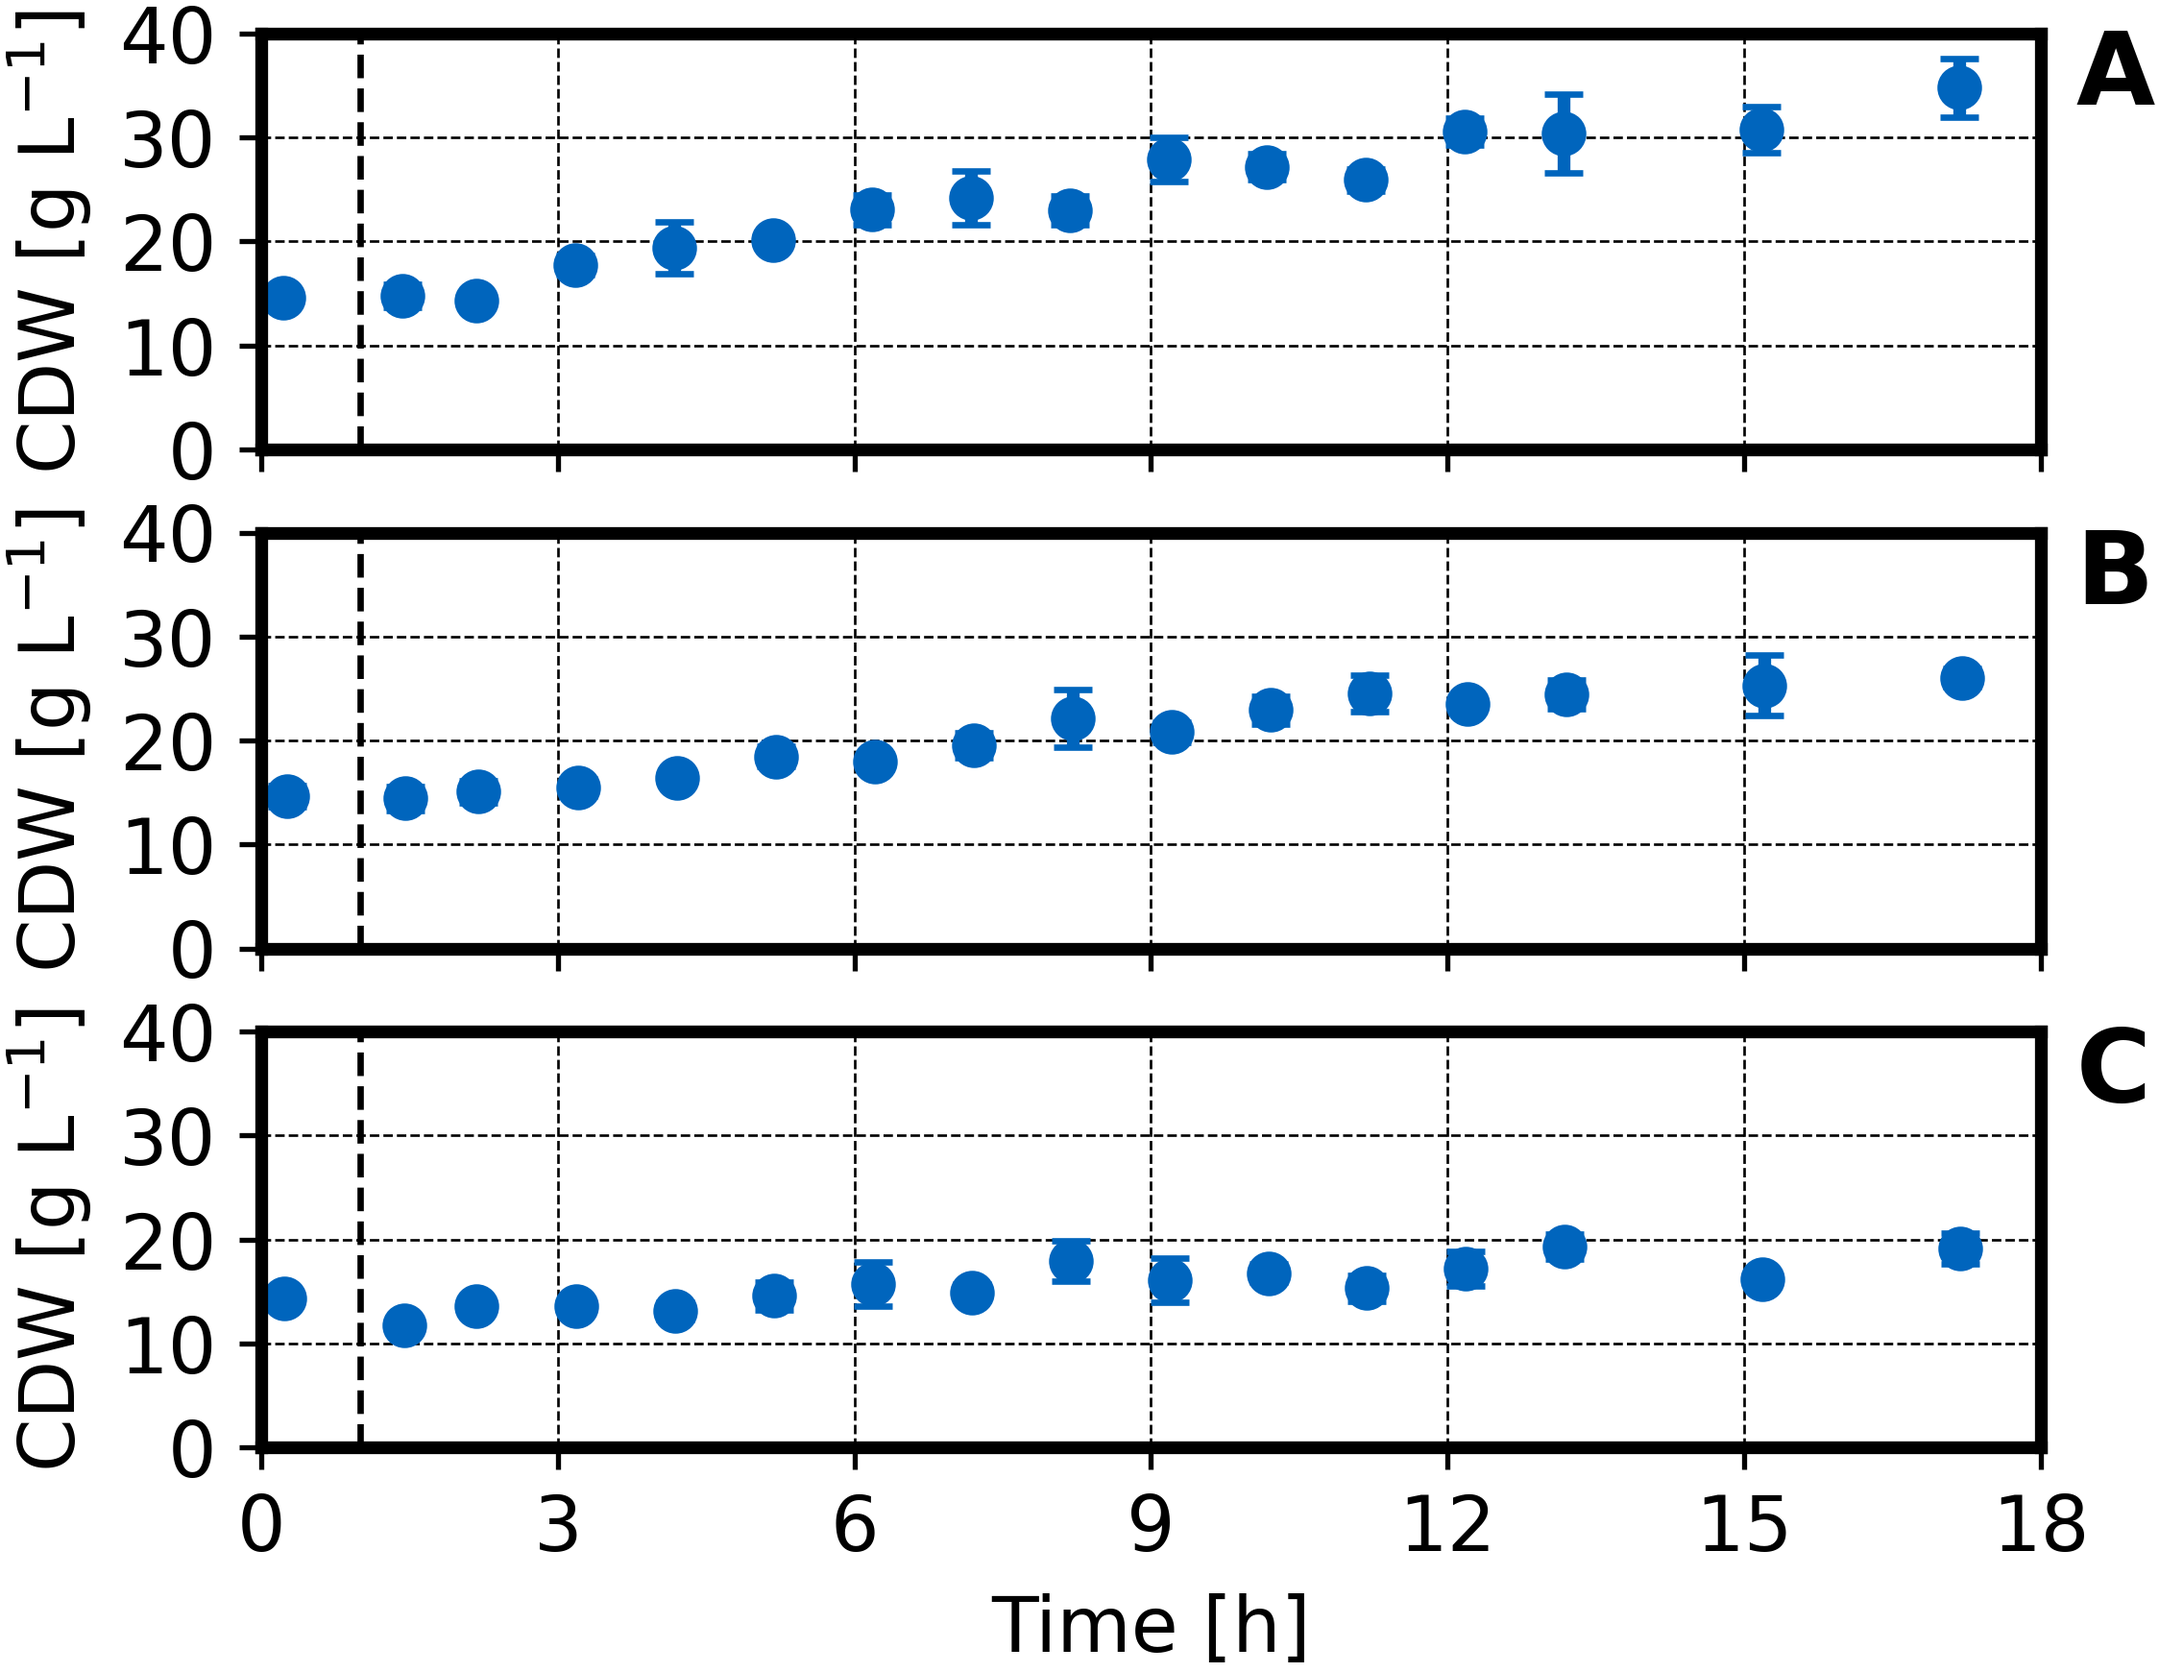
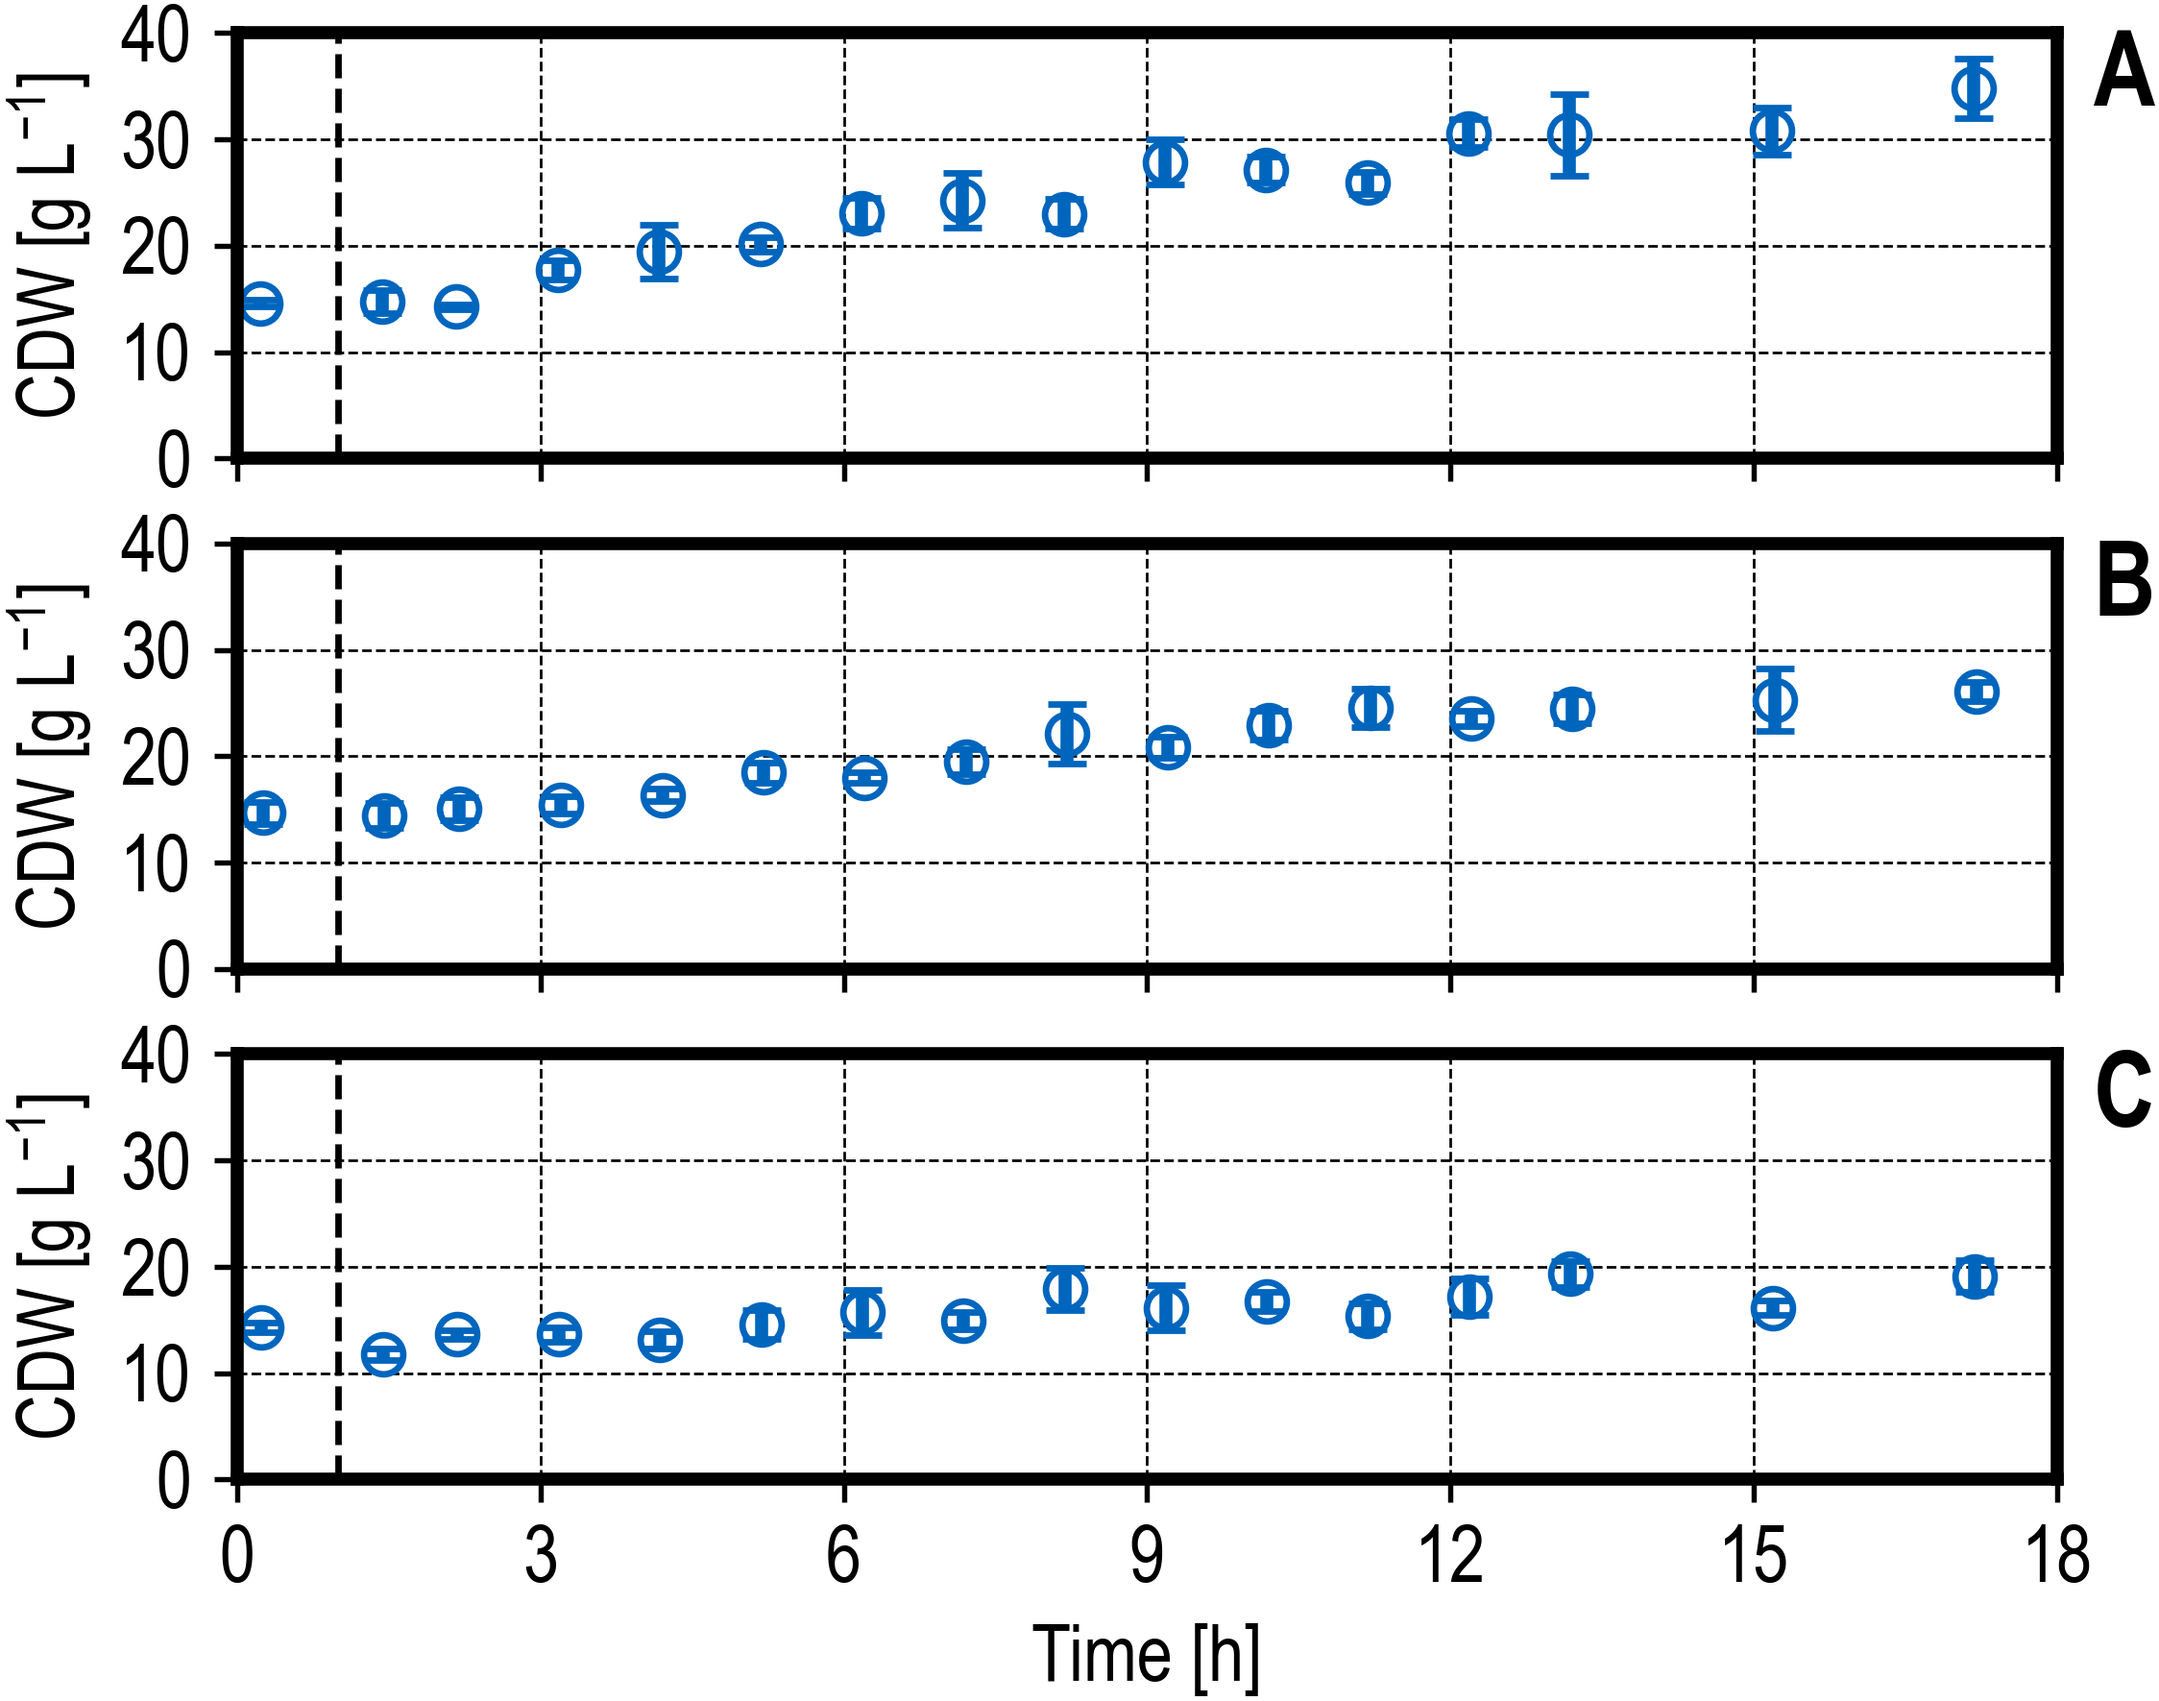
Changed figure style for btm overview

diff --git a/notebooks/FigureOverviewProcessData.py b/notebooks/FigureOverviewProcessData.py
@@ -99,7 +99,7 @@ def btm_overview(wd: pathlib.Path=DP_RESULTS):
         data_std = data_.groupby(['time']).std()
         data_mean = data_.groupby(['time']).mean()
         print(data_mean)
-        ax[0].errorbar(times, data_mean['DCW, g/L'], yerr = data_std['DCW, g/L'], label='IPTG = 0.48 \xb5M, F$_{in}$ = 4.8 g L$^{-1}$ h$^{-1}$', linestyle ='', marker='o') # plot stuff
+        ax[0].errorbar(times, data_mean['DCW, g/L'], yerr = data_std['DCW, g/L'], label='IPTG = 0.48 \xb5M, F$_{in}$ = 4.8 g L$^{-1}$ h$^{-1}$',  fillstyle='none',linestyle ='', marker='o') # plot stuff
         ax[0].axvline(1, linestyle='--', linewidth = 1.0, color='black')
         return ax
     ax = feed_rate_4_8_carb_20(ax)
@@ -124,7 +124,7 @@ def btm_overview(wd: pathlib.Path=DP_RESULTS):
         data_mean = data_.groupby(['time']).mean()
 
         
-        ax[1].errorbar(times, data_mean['DCW, g/L'], yerr = data_std['DCW, g/L'], label='IPTG = 6 \xb5M, F$_{in}$ = 3 g L$^{-1}$ h$^{-1}$', linestyle ='', marker='o') # plot stuff
+        ax[1].errorbar(times, data_mean['DCW, g/L'], yerr = data_std['DCW, g/L'], label='IPTG = 6 \xb5M, F$_{in}$ = 3 g L$^{-1}$ h$^{-1}$', fillstyle='none', linestyle ='', marker='o') # plot stuff
         ax[1].axvline(1, linestyle='--', linewidth =1.0, color='black')
         return ax
     ax = feed_rate_3_0_carb_23(ax)
@@ -148,7 +148,7 @@ def btm_overview(wd: pathlib.Path=DP_RESULTS):
         data_std = data_.groupby(['time']).std()
         data_mean = data_.groupby(['time']).mean()
         
-        ax[2].errorbar(times, data_mean['DCW, g/L'], yerr = data_std['DCW, g/L'], label='IPTG = 12 \xb5M, F$_{in}$ = 1 g L$^{-1}$ h$^{-1}$', marker ='o', linestyle='') # plot stuff
+        ax[2].errorbar(times, data_mean['DCW, g/L'], yerr = data_std['DCW, g/L'], label='IPTG = 12 \xb5M, F$_{in}$ = 1 g L$^{-1}$ h$^{-1}$', fillstyle='none', marker ='o', linestyle='') # plot stuff
         ax[2].axvline(1, linestyle='--', linewidth =1.0, color ='black')
         return ax
     ax = feed_rate_1_0_carb_21(ax)
